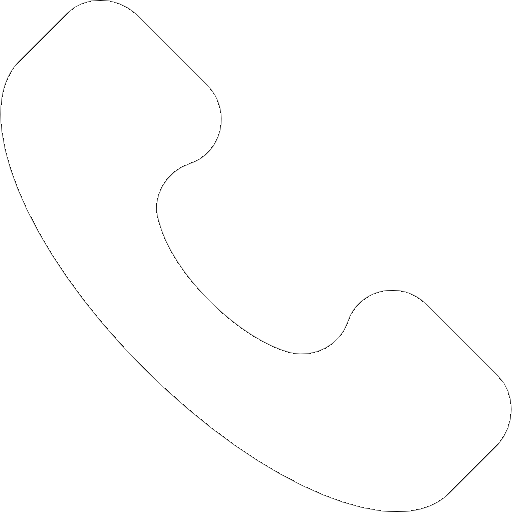
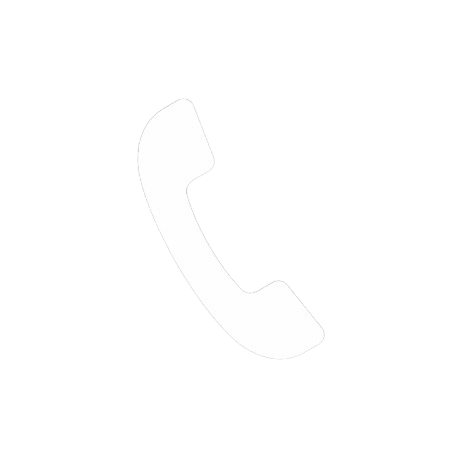
changed files

diff --git a/index.html b/index.html
@@ -17,7 +17,7 @@
 
   <div id="Hero-Nav">
   <div class="nav-left">
-    <img src="Images/logo.png" alt="Bean Haunted Coffee Logo" width="200" />
+    <h1>BEAN HAUNTED <br> COFFEE</h1>
   </div>
 
   <div class="nav-right">
@@ -68,13 +68,6 @@
     <div id="Hero-Text">
 
     <h1>BEAN HAUNTED <br> COFFEE</h1>
-    <h3>Brewing Frights & Delights in Wasco</h3>
-
-    </div>
-
-    <div id="Hero-Button">
-        <h2>Summon your Brew</h2>
-    </div>
 
     <script>
     const menu = document.getElementById("mobileMenu");
@@ -104,6 +97,19 @@
     menu.querySelectorAll("a").forEach(link => {
       link.addEventListener("click", () => menu.classList.remove("active"));
     });
+
+        /* === Cursor Glow Sync === */
+    const syncPointer = ({ x: pointerX, y: pointerY }) => {
+      const x = pointerX.toFixed(2);
+      const y = pointerY.toFixed(2);
+      const xp = (pointerX / window.innerWidth).toFixed(2);
+      const yp = (pointerY / window.innerHeight).toFixed(2);
+      document.documentElement.style.setProperty('--x', x);
+      document.documentElement.style.setProperty('--y', y);
+      document.documentElement.style.setProperty('--xp', xp);
+      document.documentElement.style.setProperty('--yp', yp);
+    };
+    document.body.addEventListener('pointermove', syncPointer);
     </script>
 </body>
 </html>

diff --git a/style.css b/style.css
@@ -117,18 +117,7 @@ h1, h3 {
 }
 
 
-/* Nav setup */
-#Hero-Nav {
-  display: flex;
-  justify-content: space-between;
-  align-items: center;
-  padding: 20px 40px;
-  background-color: black;
-  position: fixed;
-  top: 0;
-  width: 100%;
-  z-index: 1000;
-}
+
 
 /* Fullscreen overlay menu */
 .menu {
